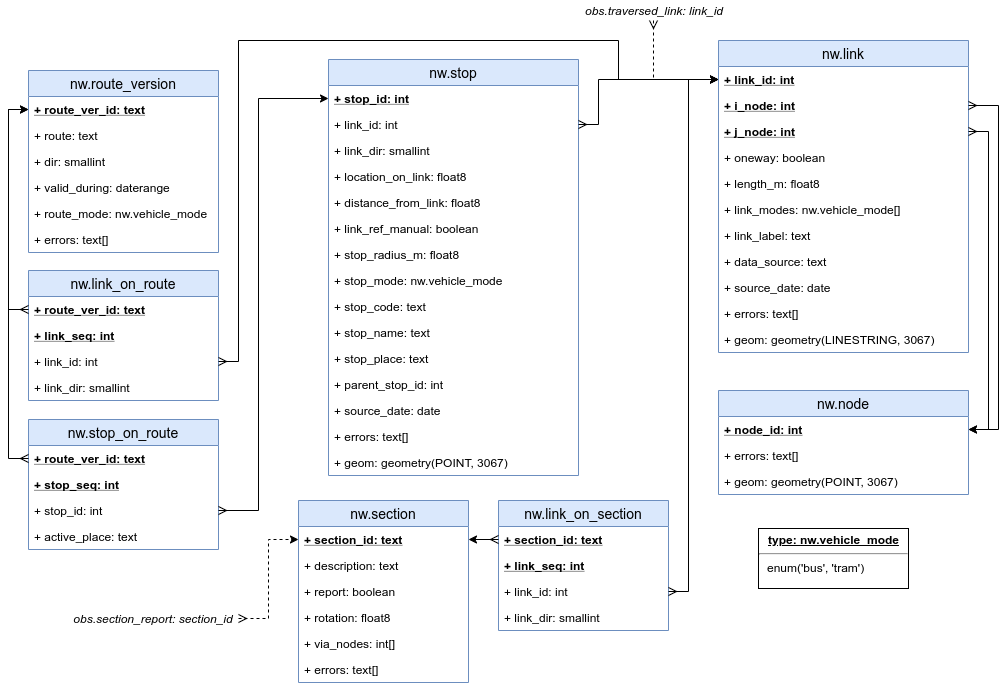
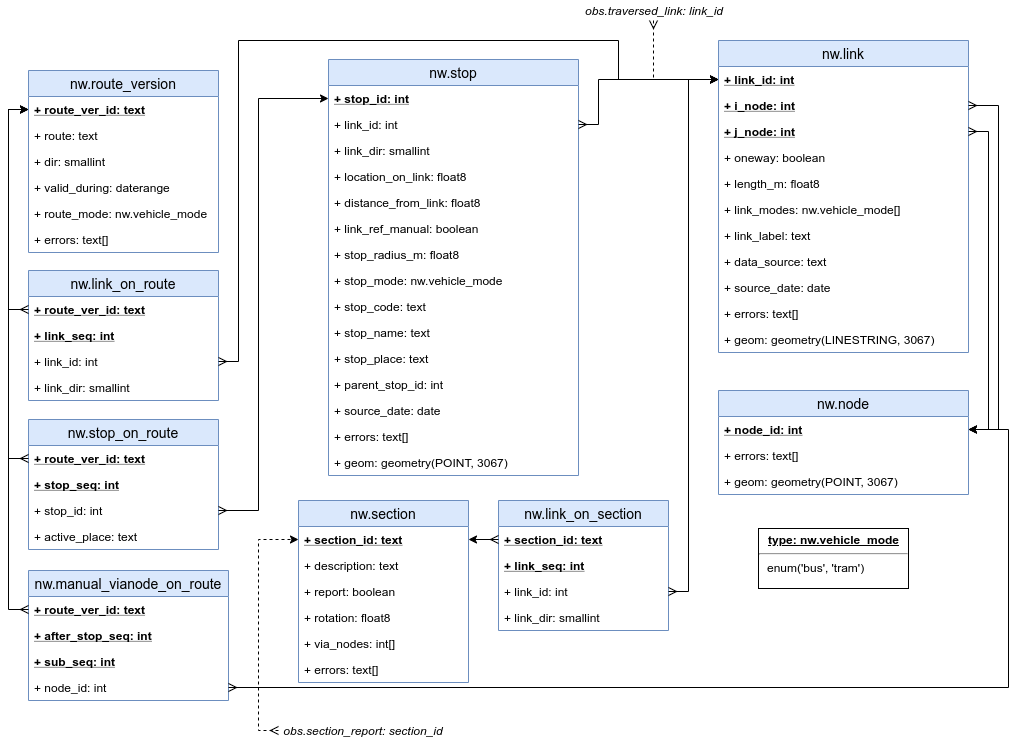
Add manual vianode table and vianode_on_route view
This table and view, together with the existing nw.stop_on_route table, 
provides a basis for creating nw.link_on_route paths from via nodes with 
a shortest path algorithm. nw.manual_vianode_on_route is a means of user 
intervention where shortest path "parameters" must be corrected by hand 
while not moving the stops.

diff --git a/db/README.md b/db/README.md
@@ -86,6 +86,48 @@ Stops served by route versions, ordered by `stop_seq`.
 
 `active_place` indicates that the stop is an "active [Hastus](https://www.giro.ca/en-ca/our-solutions/hastus-software/) place", meaning it is used as definitive point in the stop list for transit planning and measurements.
 
+#### `nw.manual_vianode_on_route`
+
+By default, ordered stops are used as basis for creating `link_on_route` paths for route versions.
+With values in this table we can force a path to be routed via an additional node between stops.
+It is well possible that the shortest path between a stop pair is not what we want.
+
+Additional, or "manual", via nodes are defined *after* a stop by sequence number (therefore `after_stop_seq`).
+If multiple via nodes are needed before the next stop, use `sub_seq` values for ordering.
+If via nodes are needed before the first stop, use `after_stop_seq = 0`.
+
+Consider this situation where we have last stops of a route version `1059_1_20200921_20201015`, `stop_seq` numbers 25 and 26:
+
+![](../docs/img/manual_vianode_situation_example.png)
+
+By default, end nodes `j_node` of stop links are chosen as via nodes for routing (except for the 1st stop of a route version `i_node` is chosen).
+So the path from 25 to 26 would go via nodes 4, 3 and 1.
+But we see that the last stop is above the loop, so we could do the following:
+
+```
+> INSERT INTO nw.manual_vianode_on_route (route_ver_id, after_stop_seq, sub_seq, node_id)
+  VALUES ('1059_1_20200921_20201015', 25, 1, 2);
+```
+
+So node 2 would be added between stop seq numbers 25 and 26 as *manual via node*, and the shortest path algorithm used to create the corresponding `nw.link_on_route` path would then correctly route via nodes 4, 3, 2 and 1.
+
+The **`nw.view_vianode_on_route`** view combines via nodes automatically derived from stops-on-route with manually added via nodes.
+The end of our example route version would look like this, note how the `sub_seq` and `stop_id` values indicate whether the via point is manual or derived from a stop:
+
+```
+> SELECT node_seq, stop_seq, sub_seq, stop_id, node_id FROM nw.view_vianode_on_route
+  WHERE route_ver_id = '1059_1_20200921_20201015' AND stop_seq > 23;
+  node_seq │ stop_seq │ sub_seq │ stop_id │ node_id
+ ══════════╪══════════╪═════════╪═════════╪═════════
+        24 │       24 │       0 │ 1465105 │      10
+        25 │       25 │       0 │ 1461107 │       4
+        26 │       25 │       1 │       ¤ │       2
+        27 │       26 │       0 │ 1461109 │       1
+```
+
+This view would also show stops outside the network, i.e. `nw.stop` without `link_id` values and thus without node references too.
+Such route versions or their stops must be fixed before `link_on_route` paths can be created.
+
 #### `nw.link_on_route`
 
 Links that form a continuous path of a route version along the network, ordered by `link_seq`.
